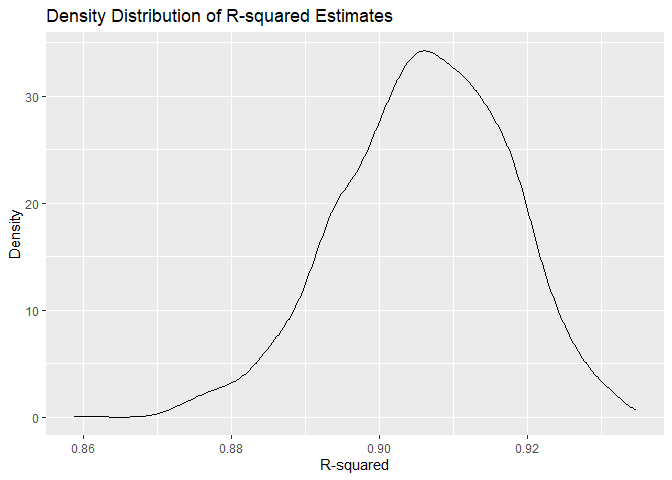
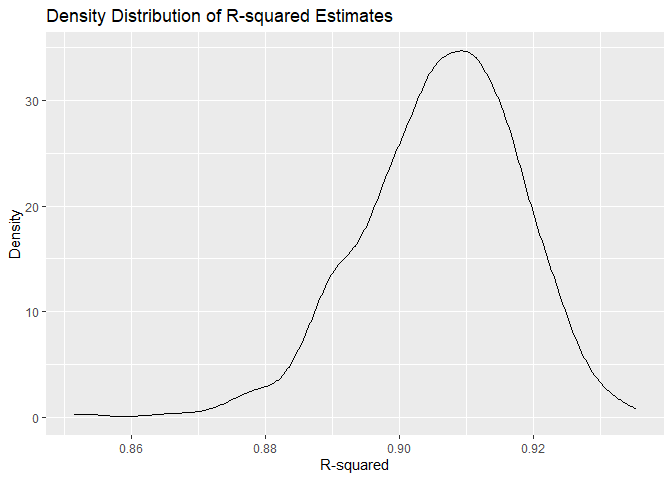
comments on the plots

diff --git a/p8105_hw6_yz4719.md b/p8105_hw6_yz4719.md
@@ -287,7 +287,7 @@ print(ci_95)
     ## # A tibble: 1 × 4
     ##   rsq_lower_ci rsq_upper_ci log_beta_lower_ci log_beta_upper_ci
     ##          <dbl>        <dbl>             <dbl>             <dbl>
-    ## 1        0.882        0.926             -9.27             -4.56
+    ## 1        0.882        0.927             -8.89             -4.57
 
 - The first plot displays the density of R-squared estimates from
   bootstrap samples, peaking around 0.92, indicating a strong and
@@ -346,7 +346,6 @@ sum(is.na(birth_weight))
     ## [1] 0
 
 ``` r
-# Fit a full model and perform stepwise regression
 full_model <- lm(bwt ~ ., data = birth_weight) 
 summary(full_model)
 ```
@@ -394,10 +393,9 @@ summary(full_model)
     ## F-statistic: 524.6 on 21 and 4320 DF,  p-value: < 2.2e-16
 
 ``` r
-# Fit a linear model using only significant variables
 significant_model <- lm(bwt ~ bhead + blength + delwt + gaweeks + mrace + smoken + parity, data = birth_weight)
 
-# Display model summary
+
 significant_model |> broom::tidy() |> knitr::kable()
 ```
 
@@ -415,7 +413,6 @@ significant_model |> broom::tidy() |> knitr::kable()
 | parity            |   102.330068 |  40.5669046 |   2.5225013 | 0.0116879 |
 
 ``` r
-# Plot of model residuals against fitted values
 birth_weight |> 
     add_predictions(significant_model) |> 
     add_residuals(significant_model) |> 
@@ -429,10 +426,14 @@ birth_weight |>
 
     ## `geom_smooth()` using formula = 'y ~ x'
 
-![](p8105_hw6_yz4719_files/figure-gfm/unnamed-chunk-2-1.png)<!-- -->
+![](p8105_hw6_yz4719_files/figure-gfm/model1-1.png)<!-- --> - The
+regression model summary indicates that the variables bhead, blength,
+delwt, gaweeks, parity, babysexmale, mraceWhite, and smoken are
+statistically significant predictors of birth weight.The residuals plot
+shows that the residuals scatter around 0 without a clear funnel shape
+shows its not obvious heteroscedasticity.
 
 ``` r
-# Cross-Validation setup
 cv_df <- crossv_mc(birth_weight, 100) |>
   mutate(
     train = map(train, as_tibble),
@@ -446,8 +447,17 @@ cv_df <- crossv_mc(birth_weight, 100) |>
     rmse_simple = map2_dbl(model_simple, test, ~rmse(model = .x, data = .y)),
     rmse_interaction = map2_dbl(model_interaction, test, ~rmse(model = .x, data = .y))
   )
+```
 
-# Pivoting and plotting RMSE for Model Comparison
+    ## Warning: There were 2 warnings in `mutate()`.
+    ## The first warning was:
+    ## ℹ In argument: `rmse_significant = map2_dbl(model_significant, test,
+    ##   ~rmse(model = .x, data = .y))`.
+    ## Caused by warning in `predict.lm()`:
+    ## ! prediction from rank-deficient fit; attr(*, "non-estim") has doubtful cases
+    ## ℹ Run `dplyr::last_dplyr_warnings()` to see the 1 remaining warning.
+
+``` r
 cv_df |>
   pivot_longer(
     cols = c(rmse_significant, rmse_simple, rmse_interaction),
@@ -459,4 +469,9 @@ cv_df |>
   labs(title = "RMSE of Different Models")
 ```
 
-![](p8105_hw6_yz4719_files/figure-gfm/unnamed-chunk-2-2.png)<!-- -->
+![](p8105_hw6_yz4719_files/figure-gfm/Cross_Validation-1.png)<!-- -->
+
+- The violin plot displays RMSE comparisons for three models; the
+  rmse_significant model outperforms the others with the lowest RMSE as
+  more reliable, while the rmse_interaction model shows the highest
+  error, indicating poorer prediction.
